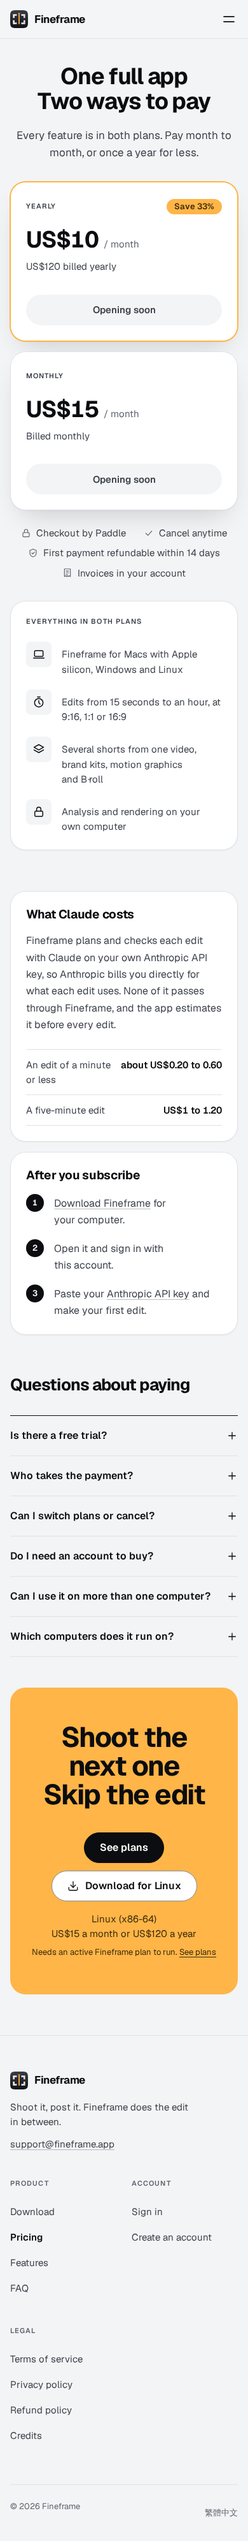
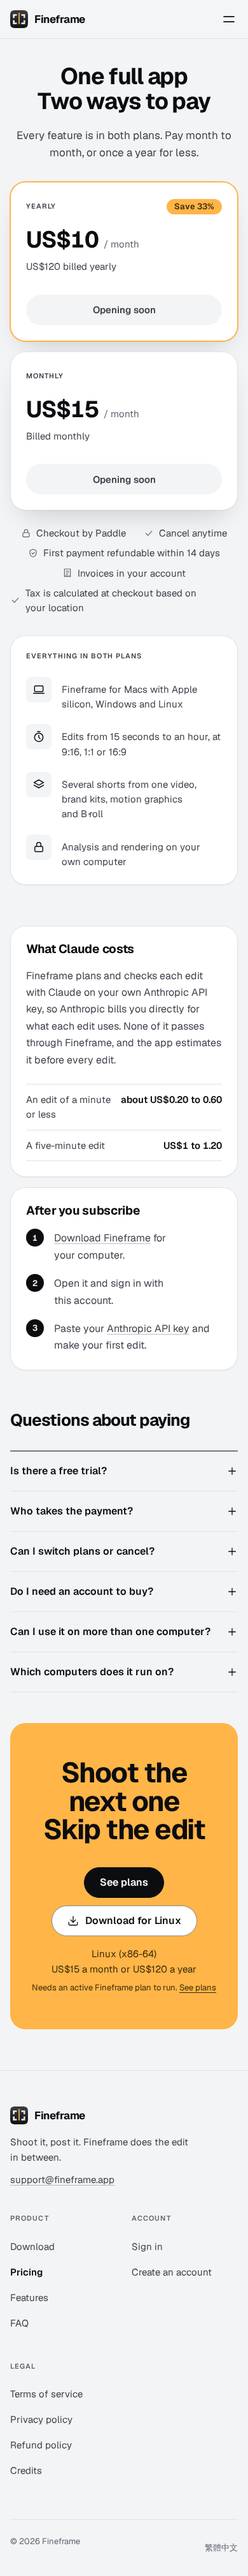
feat(site): say on the pricing page how tax is calculated (#306)
## Summary

The pricing page's trust row now says how tax works, in both languages,
as the owner chose:

- English: "Tax is calculated at checkout based on your location"
- Traditional Chinese: 「稅金在結帳時依你的所在地計算」

It is the row's fifth item, with the row's default check icon; like the
other four items it has no closing period. Visible change: the pricing
page and the home page's pricing section.

Closes #268

## Verified

- Screenshot baselines re-recorded in CI (`mise run
screenshots:update`): six PNGs change, the pages that show the pricing
row (`en-desktop`, `en-phone`, `en-pricing-desktop`, `en-pricing-phone`,
`zh-tw-desktop`, `zh-tw-phone`); Files changed shows each before and
after.
- `pnpm --filter @video-editor/site test` → 0 failed; `pnpm lint` → no
errors.
- Preview: the Cloudflare Pages check on this PR.

## Risk

Copy only. Waits for the owner's `owner-ok`. Undo: revert this PR.

diff --git a/apps/site/content/zh-tw.ts b/apps/site/content/zh-tw.ts
@@ -272,7 +272,13 @@ export const zhTw: Content = {
       },
     ],
     checkout: "即將開放購買",
-    trust: ["由 Paddle 處理結帳", "隨時可取消", "首次付款 14 天內可退款", "在帳號裡查看發票"],
+    trust: [
+      "由 Paddle 處理結帳",
+      "隨時可取消",
+      "首次付款 14 天內可退款",
+      "在帳號裡查看發票",
+      "稅金在結帳時依你的所在地計算",
+    ],
     afterTitle: "訂閱之後",
     after: [
       "[下載](/download/)你電腦的 Fineframe。",

diff --git a/apps/site/content/en.ts b/apps/site/content/en.ts
@@ -296,6 +296,7 @@ export const en: Content = {
       "Cancel anytime",
       "First payment refundable within 14 days",
       "Invoices in your account",
+      "Tax is calculated at checkout based on your location",
     ],
     afterTitle: "After you subscribe",
     after: [
